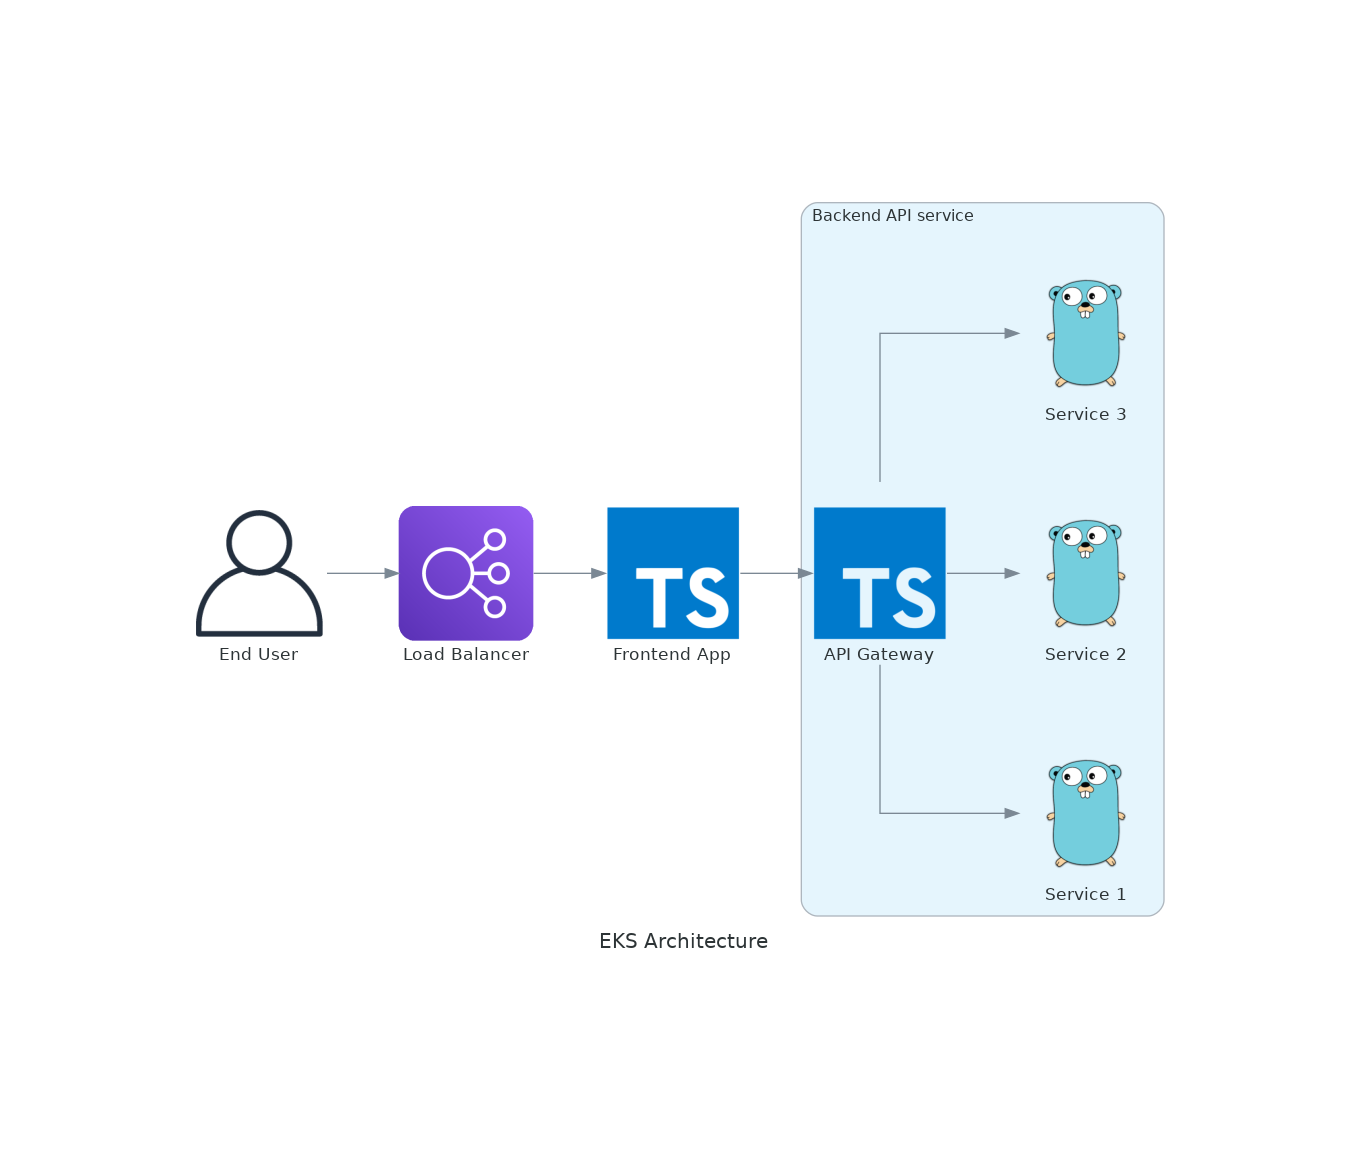
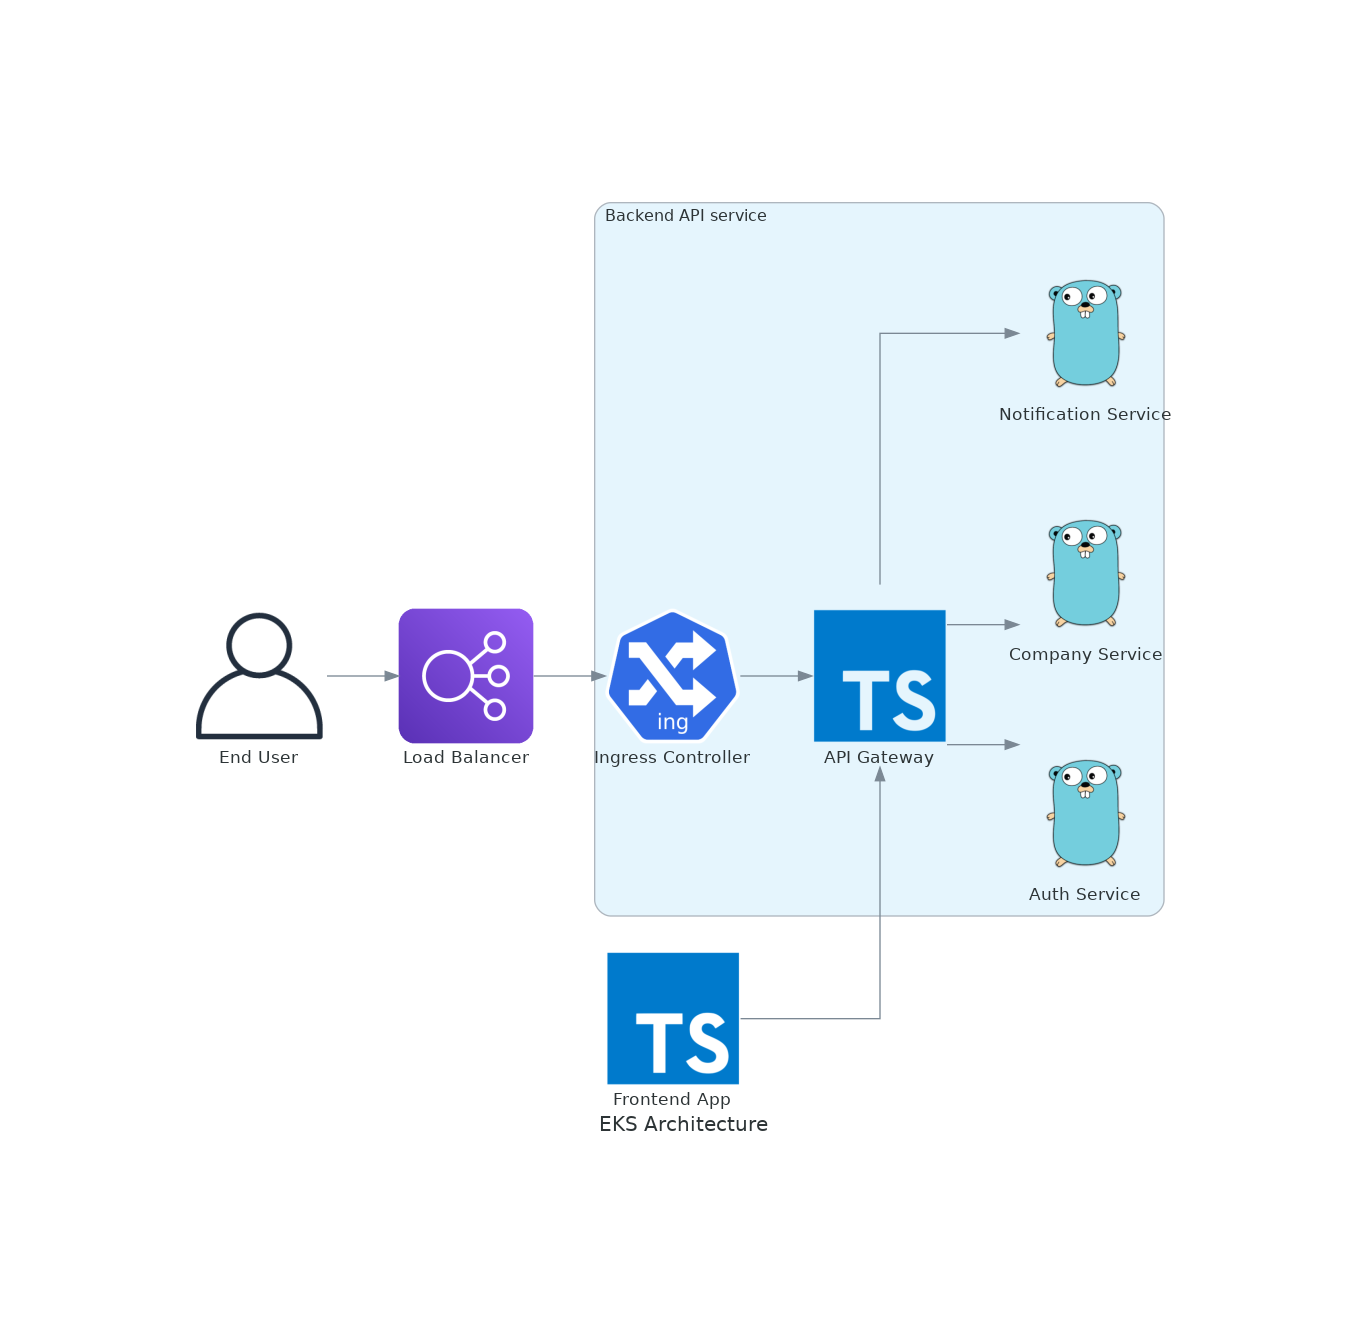
update

Changed region(s): [[0.4301, 0.125, 0.8603, 0.8438], [0.1229, 0.4375, 0.2458, 0.5938], [0.2765, 0.4375, 0.3994, 0.5938]]

diff --git a/diagram.py b/diagram.py
@@ -2,7 +2,7 @@ from diagrams import Diagram, Cluster
 from diagrams.aws.compute import EKS
 from diagrams.onprem.client import User
 from diagrams.aws.network import ELB
-from diagrams.aws.database import ElasticacheForRedis as Redis
+from diagrams.k8s.network import Ing as IngressController
 from diagrams.programming.language import Go as Golang, Typescript
 
 with Diagram("EKS Architecture", show=False):
@@ -10,12 +10,14 @@ with Diagram("EKS Architecture", show=False):
     with Cluster("Backend API service"):
         api_gateway = Typescript("API Gateway")
         golang_services = [
-            Golang("Service 1"),
-            Golang("Service 2"),
-            Golang("Service 3")
+            Golang("Auth Service"),
+            Golang("Company Service"),
+            Golang("Notification Service")
         ]
+        
+        ingress_controller = IngressController("Ingress Controller")
 
     typescript_app = Typescript("Frontend App")
 
-    User("End User") >> ELB("Load Balancer") >> typescript_app >> api_gateway >> golang_services 
-
+    User("End User") >> ELB("Load Balancer") >> ingress_controller >> api_gateway >> golang_services 
+    typescript_app >> api_gateway
